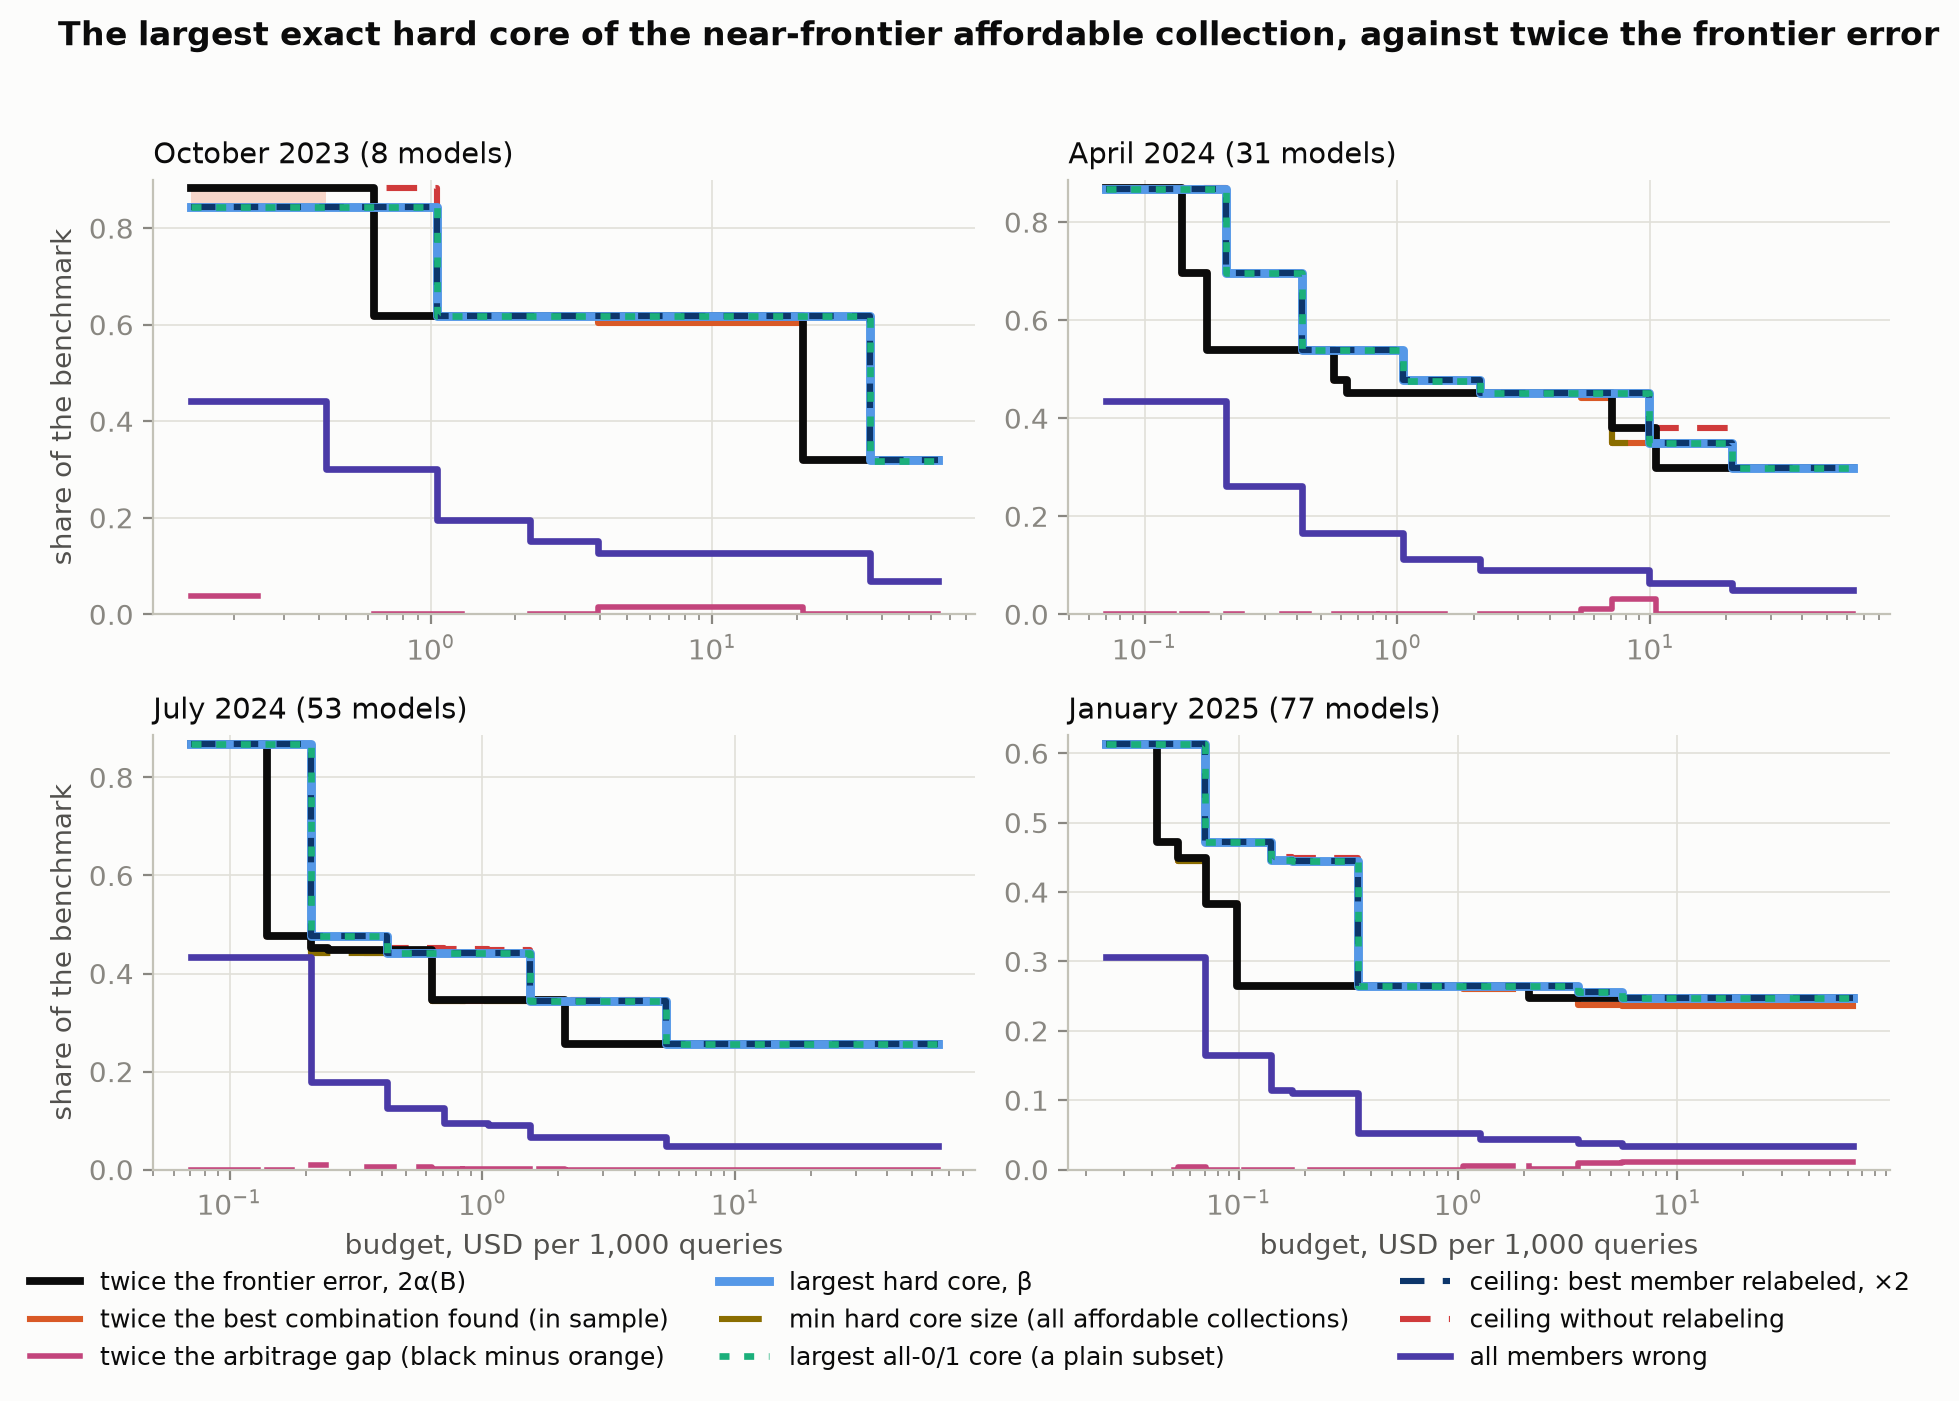
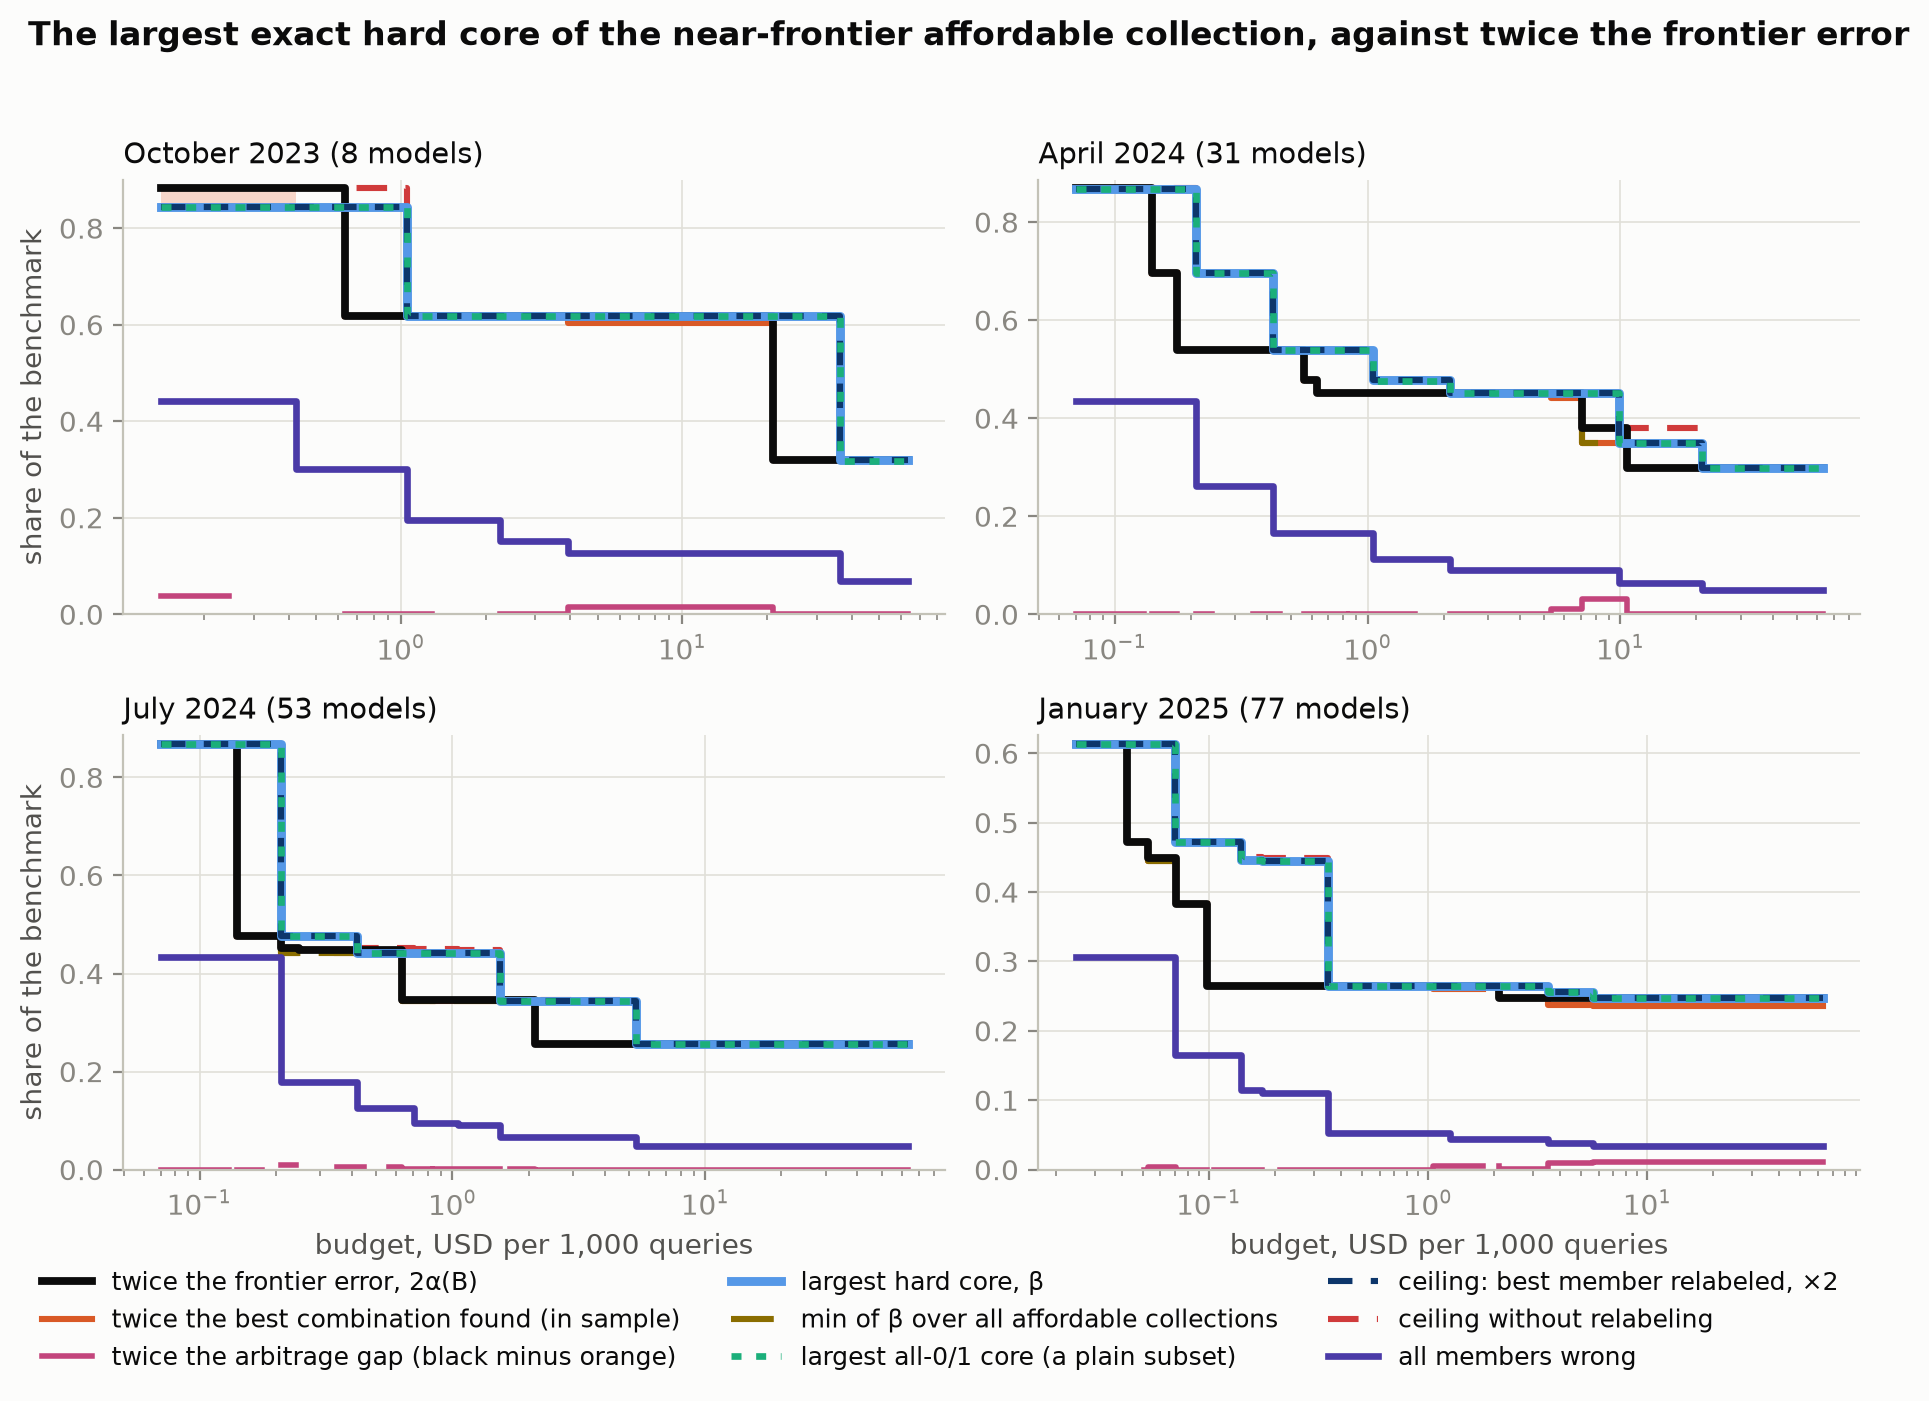
Clarify the ochre label: min of beta over all affordable collections

diff --git a/index.html b/index.html
@@ -410,7 +410,7 @@ function initExplorer(root, DATA, opts) {
       c: "--magenta", st: "solid", dash: null, w: 2.2 },
     { key: "beta", label: "max hard core size, β (greedy collection)", c: "--beta", st: "solid", dash: null, w: 3.6 }])
     .concat(bs[0].minCore !== undefined
-      ? [{ key: "minCore", label: "min hard core size (all affordable collections)",
+      ? [{ key: "minCore", label: "min of β over all affordable collections",
            c: "--ochre", st: "dashed", dash: "12 5", w: 2.4 }] : [])
     .concat([
     { key: "betaInt", label: "largest all-0/1 core", c: "--aqua", st: "dotted", dash: "2 4.5", w: 2.6 },
@@ -558,7 +558,7 @@ function initExplorer(root, DATA, opts) {
                ["twice the arbitrage gap (black minus orange)", r.twoAlpha - r.arb2, "--magenta", "solid"],
                ["max hard core size, β (greedy collection)", r.beta, "--beta", "solid"]])
       .concat(r.minCore !== undefined
-        ? [["min hard core size (all affordable collections)", r.minCore, "--ochre", "dashed"]] : [])
+        ? [["min of β over all affordable collections", r.minCore, "--ochre", "dashed"]] : [])
       .concat([
                ["largest all-0/1 core (subset)", r.betaInt, "--aqua", "dotted"],
                ["ceiling: best member relabeled, ×2", r.ceil, "--navy", "dashed"],
